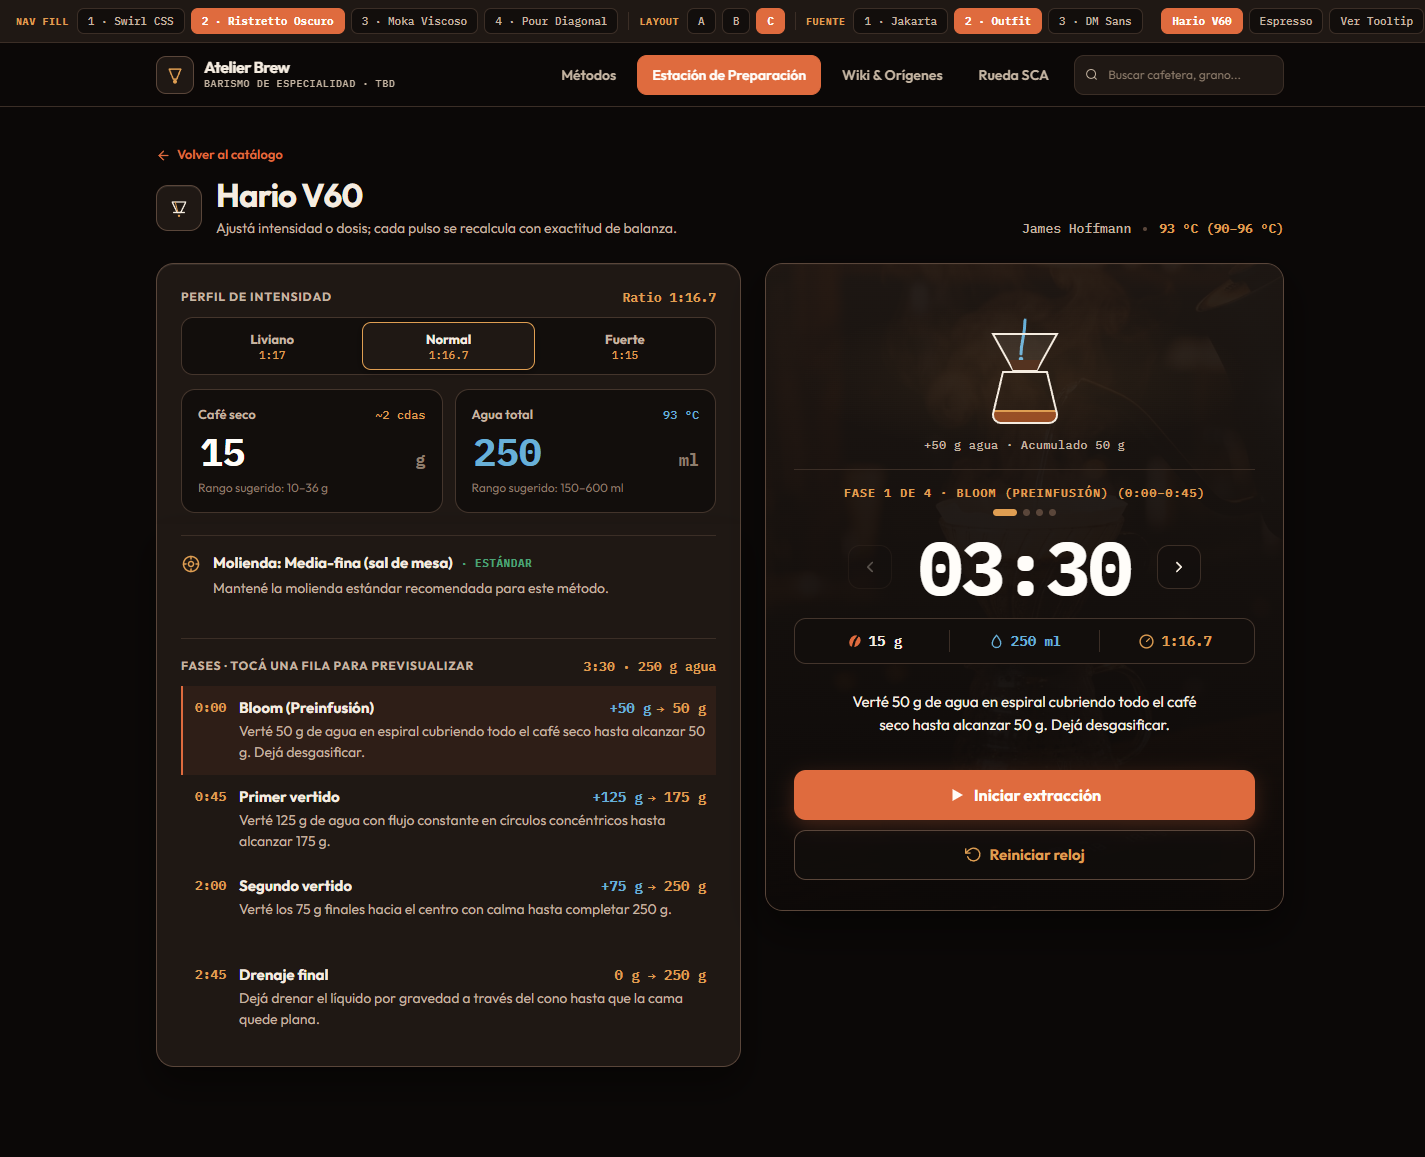
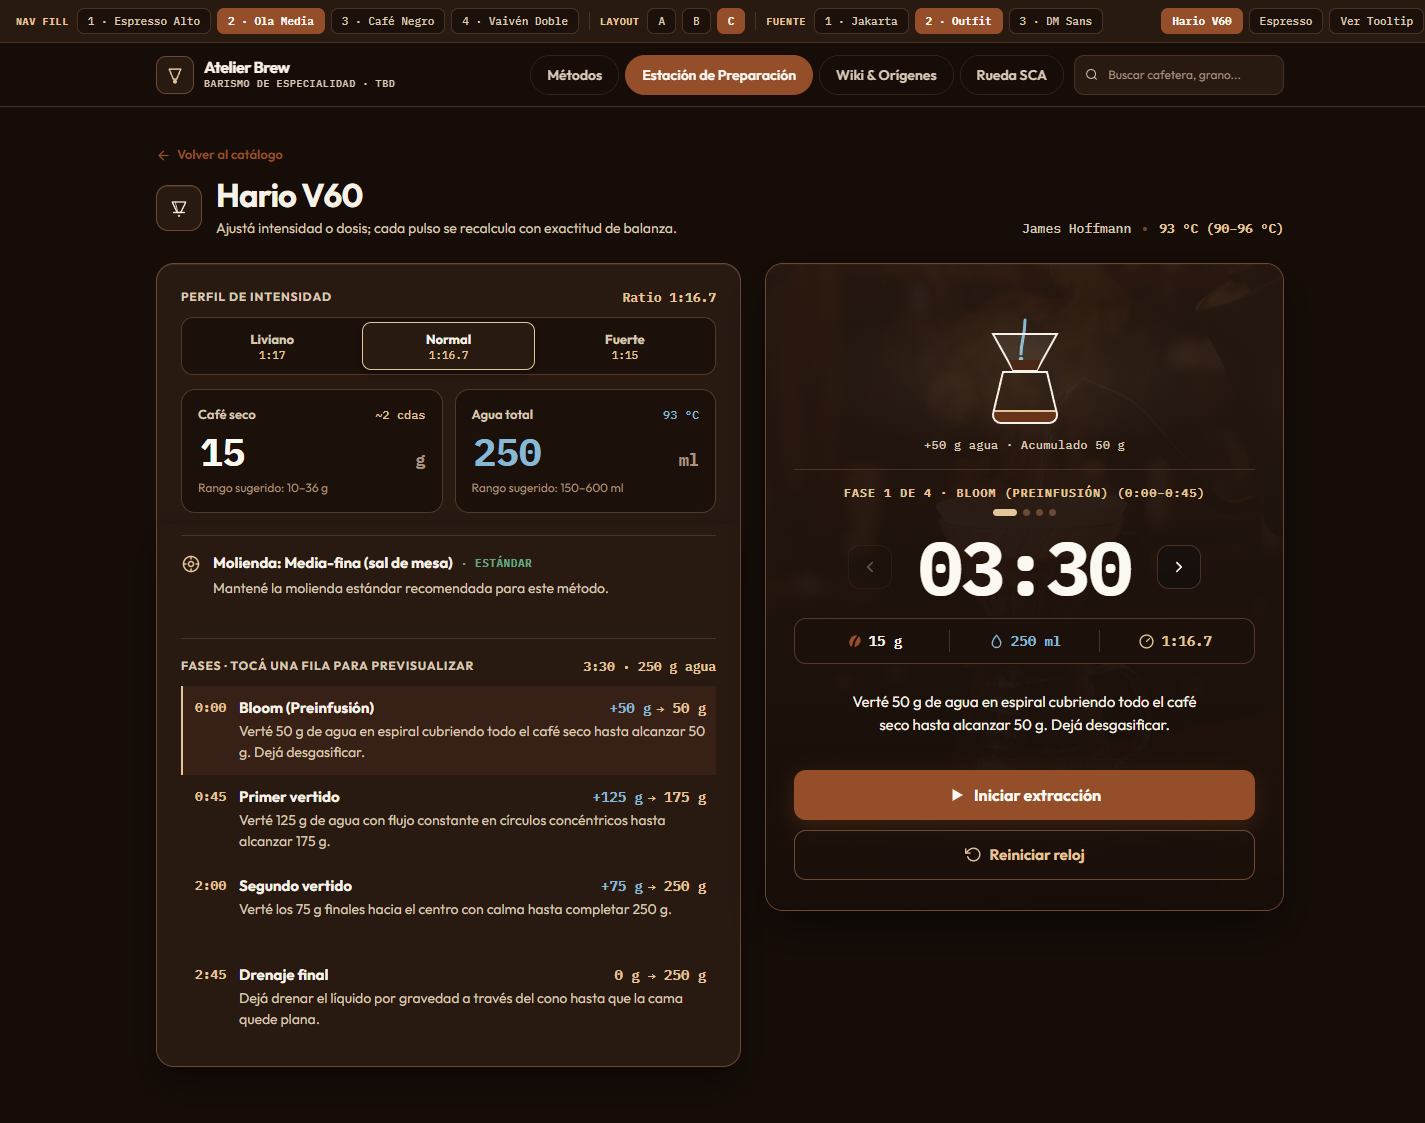
feat: add C-05 brew station calculator UI design specs and mockups

diff --git a/openspec/changes/c-05-brew-station-calculator-ui/mockups/brew-station-calculator.html b/openspec/changes/c-05-brew-station-calculator-ui/mockups/brew-station-calculator.html
@@ -24,24 +24,48 @@
       --navbar-height: 64px;
       --bottom-bar-height: 68px;
 
-      /* Contraste 3A Confirmado (Tinta Cálida Elevada sobre Espresso Profundo) */
-      --bg-canvas: #0B0807;
-      --bg-surface: #1F1814;
-      --bg-dark-card: #1F1814;
-      --bg-elevated: #120E0C;
-      --bg-tooltip: #261E19;
-      --bg-glass: rgba(11, 8, 7, 0.90);
+      /* Paleta Café, Chocolate y Blanco Beige */
+      --bg-canvas: #160D08;          /* Café espresso profundo */
+      --bg-surface: #281911;         /* Chocolate amargo elevado */
+      --bg-dark-card: #24160F;       /* Chocolate tostado (panel Timer) */
+      --bg-elevated: #1B100A;        /* Chocolate negro (campos rebajados) */
+      --bg-tooltip: #342117;         /* Chocolate cacao (tooltips) */
+      --bg-glass: rgba(22, 13, 8, 0.92);
 
-      --border-subtle: #3B2E26;
-      --border-strong: #5A463A;
-      --border-recessed: #44352C;
+      --text-primary: #F7F1E7;       /* Blanco beige principal */
+      --text-secondary: #D9C8B6;     /* Beige latte */
+      --text-muted: #A9937E;         /* Café con leche suave */
+      --text-on-accent: #FCF8F2;     /* Blanco crema puro */
+      --text-on-photo: #F8F2E8;      /* Blanco beige sobre foto */
 
-      --surface-highlight: inset 0 1px 0 rgba(245, 236, 224, 0.08);
-      --tooltip-shadow: 0 12px 28px rgba(0, 0, 0, 0.55), 0 0 0 1px var(--border-strong);
+      --border-subtle: #4A3123;      /* Cacao sutil */
+      --border-strong: #6B4935;      /* Chocolate avellana */
+      --border-recessed: #543828;    /* Borde de pozos de entrada */
+      --border-focus: #C89B6E;       /* Caramelo beige en foco */
 
-      /* Active Font Tokens (default Font 1) */
-      --active-font-sans: "Plus Jakarta Sans", system-ui, sans-serif;
-      --active-font-mono: "JetBrains Mono", monospace;
+      /* Acentos Chocolate Tostado & Blanco Beige Crema */
+      --accent-primary: #944E29;     /* Chocolate canela tostado */
+      --accent-primary-hover: #A85B32;
+      --accent-primary-soft: rgba(148, 78, 41, 0.24);
+      --accent-gold: #E4C49B;        /* Blanco beige dorado / crema */
+      --accent-gold-soft: rgba(228, 196, 155, 0.14);
+
+      /* Semántica & SVG armónicos con chocolate/beige */
+      --status-optimal: #63A882;
+      --status-optimal-bg: rgba(99, 168, 130, 0.16);
+      --svg-vessel-stroke: #F7F1E7;
+      --svg-vessel-glass: rgba(247, 241, 231, 0.08);
+      --svg-water-stream: #87B9D4;
+      --svg-coffee-liquid: #6E3619;
+      --svg-coffee-crema: #E4C49B;
+      --svg-coffee-bed: #4B2816;
+
+      --surface-highlight: inset 0 1px 0 rgba(247, 241, 231, 0.09);
+      --tooltip-shadow: 0 12px 28px rgba(10, 5, 3, 0.6), 0 0 0 1px var(--border-strong);
+
+      /* Active Font Tokens (default Font 2: Outfit + IBM Plex Mono) */
+      --active-font-sans: "Outfit", system-ui, sans-serif;
+      --active-font-mono: "IBM Plex Mono", monospace;
     }
 
     html[data-font="1"] {
@@ -267,24 +291,24 @@
     }
     .nav-fill-layer::before {
       border-radius: 45%;
-      background: #0B0807;
+      background: var(--bg-canvas);
       animation: liquidWaveRotate 5.5s linear infinite;
     }
     .nav-fill-layer::after {
       border-radius: 40%;
-      background: rgba(11, 8, 7, 0.55);
+      background: rgba(22, 13, 8, 0.58);
       animation: liquidWaveRotate 9.5s linear infinite;
     }
 
     /* Variante 1: Espresso Intenso (~86% lleno, doble ola arriba como botón izq.) */
     html[data-nav-hover="1"] .nav-btn:not([aria-current="page"]) .nav-fill-layer {
-      background: #422112;
+      background: #4F2916;
     }
     html[data-nav-hover="1"] .nav-btn:not([aria-current="page"]):hover,
     html[data-nav-hover="1"] .nav-btn:not([aria-current="page"]):focus-visible,
     html[data-nav-hover="1"] .nav-btn:not([aria-current="page"]).is-demo-hover {
       color: var(--text-on-accent);
-      border-color: #7D4427;
+      border-color: var(--border-strong);
     }
     html[data-nav-hover="1"] .nav-btn:not([aria-current="page"]):hover .nav-fill-layer,
     html[data-nav-hover="1"] .nav-btn:not([aria-current="page"]):focus-visible .nav-fill-layer,
@@ -294,13 +318,13 @@
 
     /* Variante 2: Ristretto Ola Visible (~66% lleno, ola pronunciada al centro) */
     html[data-nav-hover="2"] .nav-btn:not([aria-current="page"]) .nav-fill-layer {
-      background: #4F2816;
+      background: #61331C;
     }
     html[data-nav-hover="2"] .nav-btn:not([aria-current="page"]):hover,
     html[data-nav-hover="2"] .nav-btn:not([aria-current="page"]):focus-visible,
     html[data-nav-hover="2"] .nav-btn:not([aria-current="page"]).is-demo-hover {
       color: var(--text-on-accent);
-      border-color: var(--accent-primary);
+      border-color: var(--accent-gold);
     }
     html[data-nav-hover="2"] .nav-btn:not([aria-current="page"]):hover .nav-fill-layer,
     html[data-nav-hover="2"] .nav-btn:not([aria-current="page"]):focus-visible .nav-fill-layer,
@@ -310,16 +334,16 @@
 
     /* Variante 3: Café Negro Profundo (~80% lleno, tono más sobrio y oscuro) */
     html[data-nav-hover="3"] .nav-btn:not([aria-current="page"]) .nav-fill-layer {
-      background: #2C160C;
+      background: #3B1E10;
     }
     html[data-nav-hover="3"] .nav-btn:not([aria-current="page"]) .nav-fill-layer::after {
-      background: rgba(24, 14, 10, 0.55);
+      background: rgba(28, 16, 10, 0.58);
     }
     html[data-nav-hover="3"] .nav-btn:not([aria-current="page"]):hover,
     html[data-nav-hover="3"] .nav-btn:not([aria-current="page"]):focus-visible,
     html[data-nav-hover="3"] .nav-btn:not([aria-current="page"]).is-demo-hover {
       color: var(--text-on-accent);
-      border-color: rgba(223, 158, 82, 0.45);
+      border-color: rgba(228, 196, 155, 0.5);
     }
     html[data-nav-hover="3"] .nav-btn:not([aria-current="page"]):hover .nav-fill-layer,
     html[data-nav-hover="3"] .nav-btn:not([aria-current="page"]):focus-visible .nav-fill-layer,
@@ -329,7 +353,7 @@
 
     /* Variante 4: Doble Vaivén Opuesto (giros contrarios en ::before y ::after) */
     html[data-nav-hover="4"] .nav-btn:not([aria-current="page"]) .nav-fill-layer {
-      background: linear-gradient(180deg, #542B18 0%, #2E170D 32%, #1C0E08 100%);
+      background: linear-gradient(180deg, #63341C 0%, #3E2011 32%, #24120A 100%);
     }
     html[data-nav-hover="4"] .nav-btn:not([aria-current="page"]) .nav-fill-layer::after {
       animation: liquidWaveRotateRev 7.5s linear infinite;
@@ -634,11 +658,11 @@
     }
     .dose-well:focus-within {
       border-color: var(--border-focus);
-      box-shadow: 0 0 0 3px rgba(223, 107, 62, 0.18);
+      box-shadow: 0 0 0 3px rgba(200, 155, 110, 0.22);
     }
     .dose-well.is-water:focus-within {
       border-color: var(--svg-water-stream);
-      box-shadow: 0 0 0 3px rgba(104, 176, 216, 0.18);
+      box-shadow: 0 0 0 3px rgba(135, 185, 212, 0.22);
     }
     .dose-well.has-error { border-color: var(--status-danger); }
 
@@ -874,8 +898,8 @@
     .phase-row:last-child { border-bottom: none; }
     .phase-row:hover { background: rgba(245, 236, 224, 0.03); }
     .phase-row.is-active {
-      border-left-color: var(--accent-primary);
-      background: rgba(223, 107, 62, 0.08);
+      border-left-color: var(--accent-gold);
+      background: rgba(148, 78, 41, 0.14);
     }
     .phase-row-top {
       display: flex;
@@ -957,7 +981,7 @@
     .timer-bg-scrim {
       position: absolute;
       inset: 0;
-      background: linear-gradient(180deg, rgba(31, 24, 20, 0.72) 0%, rgba(11, 8, 7, 0.92) 100%);
+      background: linear-gradient(180deg, rgba(40, 25, 17, 0.72) 0%, rgba(22, 13, 8, 0.92) 100%);
       pointer-events: none;
     }
     .timer-content {
@@ -980,7 +1004,7 @@
       align-items: center;
       justify-content: center;
       gap: 6px;
-      background: radial-gradient(ellipse 68% 60% at 50% 48%, rgba(223, 158, 82, 0.08) 0%, transparent 72%);
+      background: radial-gradient(ellipse 68% 60% at 50% 48%, rgba(228, 196, 155, 0.08) 0%, transparent 72%);
       border-bottom: 1px solid var(--border-subtle);
     }
     .svg-stage-caption {
@@ -1059,7 +1083,7 @@
     .step-arrow-btn:hover:not(:disabled) {
       border-color: var(--accent-gold);
       color: var(--accent-gold);
-      background: rgba(223, 158, 82, 0.12);
+      background: rgba(228, 196, 155, 0.12);
     }
     .step-arrow-btn:active:not(:disabled) { transform: scale(0.95); }
     .step-arrow-btn:disabled { opacity: 0.3; cursor: not-allowed; }
@@ -1310,17 +1334,17 @@
       background: var(--accent-primary);
       color: var(--text-on-accent);
       font-size: 16px;
-      box-shadow: 0 6px 20px rgba(223, 107, 62, 0.25);
+      box-shadow: 0 6px 20px rgba(148, 78, 41, 0.28);
     }
     .btn-primary-full:hover:not(:disabled) { background: var(--accent-primary-hover); }
     .btn-primary-full:disabled { opacity: 0.45; cursor: not-allowed; }
     .btn-secondary-full {
       border: 1px solid var(--border-strong);
-      background: rgba(18, 14, 12, 0.55);
+      background: rgba(27, 16, 10, 0.65);
       color: var(--accent-gold);
       font-size: 15px;
     }
-    .btn-secondary-full:hover { background: rgba(223, 158, 82, 0.12); }
+    .btn-secondary-full:hover { background: rgba(228, 196, 155, 0.12); }
 
     /* Mobile Bottom Tab Bar */
     .bottom-tab-bar {

diff --git a/openspec/changes/c-05-brew-station-calculator-ui/design.md b/openspec/changes/c-05-brew-station-calculator-ui/design.md
@@ -17,19 +17,20 @@ Este change (`C-05`) reemplaza el marcador estático de `/brew/:methodSlug` por 
 ### Design Brief (Actualizado Rev 4 — Layout C + Motion Smooth)
 
 - **Surface Mode (`impeccable`)**: *Operate* — estación de mesada de alta legibilidad a un brazo de distancia, jerarquía numérica tabular ampliada (`clamp(1.85rem, 4.5vw, 2.35rem)` sin spinners nativos en inputs, `clamp(3.5rem, 5.5vw, 4.65rem)` en reloj, mínimo `14px` en instrucciones), título limpio sin sufijo de IA (`{t(method.nameKey)}`) y metadata en encabezado ordenada como **`Autor • Temp °C`** para mantener fija la temperatura al borde derecho mientras el autor cambia de longitud sin huecos ni saltos.
-- **Paleta Contraste 3A y Codificación Cromática Funcional (`design-system/tokens.css` Rev 4)**:
-  - Canvas profundo `--bg-canvas: #0B0807`, paneles elevados tinta cálida `--bg-surface: #1F1814` (borde `--border-strong: #5A463A` + highlight superior `inset 0 1px 0 rgba(245, 236, 224, 0.08)`), pozos de entrada rebajados `--bg-elevated: #120E0C` (`#44352C`).
-  - Anti-"AI Slop": cero cajas anidadas dentro del panel izquierdo; molienda y cronograma de fases viven en filas editoriales separadas por hairlines (`border-t` / `border-b`) con barra cobre lateral en la fase seleccionada.
-  - **Caudal de Agua (`--svg-water-stream: #68B0D8`)**: campo `Agua total`, deltas parciales, ícono Gota **1A** y chorro SVG.
-  - **Escala y Tiempos (`--accent-gold: #DF9E52`)**: acumulados, timestamps, menisco SVG, ratio (ícono Dial **1B**) y dot activo del slider de fases.
-  - **Café y Acción (`--accent-primary: #DF6B3E`)**: ícono Grano **1C**, CTA `Iniciar extracción` y estilo de Espresso activo.
+- **Paleta Café, Chocolate y Blanco Beige (`design-system/tokens.css` Rev 4)**:
+  - Canvas profundo espresso `--bg-canvas: #160D08`, paneles elevados chocolate amargo `--bg-surface: #281911` (borde avellana `--border-strong: #6B4935` + highlight superior `inset 0 1px 0 rgba(247, 241, 231, 0.09)`), pozos de entrada chocolate negro `--bg-elevated: #1B100A` (`#543828`).
+  - Tipografía **Blanco Beige (`--text-primary: #F7F1E7`)**, beige latte (`--text-secondary: #D9C8B6`) y café con leche (`--text-muted: #A9937E`).
+  - Anti-"AI Slop": cero cajas anidadas dentro del panel izquierdo; molienda y cronograma de fases viven en filas editoriales separadas por hairlines (`border-t` / `border-b`) con barra lateral blanco beige dorado en la fase seleccionada.
+  - **Chocolate Tostado (`--accent-primary: #944E29` / hover `#A85B32`)**: CTA `Iniciar extracción` (`#FCF8F2` sobre chocolate, contraste ~5.8:1), pastilla activa del navbar y estilo de Espresso activo.
+  - **Blanco Beige Crema (`--accent-gold: #E4C49B`)**: acumulados, timestamps, menisco SVG, ratio (ícono Dial **1B**), dot activo y acción secundaria `Reiniciar reloj`.
+  - **Caudal de Agua (`--svg-water-stream: #87B9D4`)**: celeste pizarra suave armónico para el campo `Agua total`, deltas parciales, ícono Gota **1A** y chorro SVG.
 - **Layout C (`Split Reloj`) y Navegación Libre entre Fases (`<` / `>`)**:
-  - Panel derecho fotográfico moody con escenario SVG sin recuadro punteado, slider de puntos interactivo, reloj flanqueado por botones táctiles `[<]` / `[>]` (`44×44px`) que permiten inspeccionar y saltar fases adelante/atrás sin bloqueo, barra unificada de 3 métricas (`Café · Agua · Ratio`) con tooltips interactivos estilo HeroUI (apertura inferior `placement="bottom"` para no tapar el reloj, habilitada en hover/focus/tap) y acciones apiladas `Iniciar extracción` / `Reiniciar reloj`.
-- **Especificación de Animaciones Smooth (GPU `transform` / `opacity`, 170–280 ms, `prefers-reduced-motion: reduce`)**:
+  - Panel derecho fotográfico moody con escenario SVG sin recuadro punteado, slider de puntos interactivo, reloj flanqueado por botones táctiles `[<]` / `[>]` (`44×44px`) que permiten inspeccionar y saltar fases adelante/atrás sin bloqueo, barra unificada de 3 métricas (`Café · Agua · Ratio`) con tooltips propios estilo HeroUI (`Tooltip.tsx`, apertura inferior `placement="bottom"`, hover/focus/tap) y acciones apiladas `Iniciar extracción` / `Reiniciar reloj`.
+- **Especificación de Animaciones Smooth (GPU `transform` / `opacity`, 170–900 ms, `prefers-reduced-motion: reduce`)**:
   - **Transición de valores al cambiar Intensidad / Dosis**: interpolación numérica rápida (`~175ms`, curva *cubic-out* vía `requestAnimationFrame`) en agua recalculada, métricas y yields, evitando bloqueos si el usuario sigue escribiendo, más `softBlurSwap` (`190ms`, `opacity` + leve `blur(3px -> 0)`) en cambio de **Autor**, ratio y pesos por fase sin desplazar ningún elemento (`0 px` layout shift).
   - **Slider de dots y cambio de paso**: DOM persistente en los indicadores `.phase-dot` para deslizar suavemente el ancho activo (`7px ↔ 24px`, `280ms cubic-bezier(0.22, 1, 0.36, 1)`) + deslizamiento direccional `±14px` en título/instrucción/caption (`240ms`) + micro-pulso del reloj (`220ms`).
   - **Escena SVG persistente**: `<clipPath>` + escala vertical suave del nivel líquido (`scaleY`, `380ms cubic-bezier(0.16, 1, 0.3, 1)`) y crossfade entre chorro de vertido y goteo en drenaje final.
-  - **Navbar Hover ("Llenado de Café")**: ítems de navegación no activos reaccionan al hover/focus con efecto líquido color café/crema interno (`overflow: hidden` + capa animada GPU — variante pendiente de selección entre `Espresso Bottom`, `Ola de Crema`, `Pour Diagonal` o `Nivel Crema`).
+  - **Navbar Hover "Liquid Fill" (CSS `::before`/`::after` rotativos)**: ítems de navegación pill no activos suben y bajan lentamente (`900 ms cubic-bezier(0.22, 1, 0.36, 1)`) su bloque líquido café mientras dos pseudoelementos rotativos (`border-radius: 40%/45%`, `@keyframes liquidWaveRotate`) tallan olas ondulantes continuas — variante final (`1`–`4`) a confirmar por el usuario.
 - **Arquitectura Visual Responsive (Mobile-First `390×844` → Desktop `1440×900`)**:
   - **Mobile-first (`< 920px`)**: columna única ordenada por prioridad de uso en barra: **1) Controles de intensidad y cantidades (`Café` / `Agua` / `Alertas`) → 2) Panel Timer principal (para iniciar extracción sin scrollear) → 3) Recomendación de molienda y cronograma extendido de fases al final**, con `BottomTabBar` y sin desbordamiento horizontal (`scrollWidth <= innerWidth`).
   - **Desktop (`>= 920px`)**: grilla asimétrica `1.06fr 0.94fr` donde controles + molienda + fases conforman la columna izquierda unificada y el panel Timer ocupa la columna derecha; alturas normalizadas (`min-height` en tip de molienda e instrucción de timer) garantizando `0.0 px` de salto vertical al alternar intensidades o fases.
